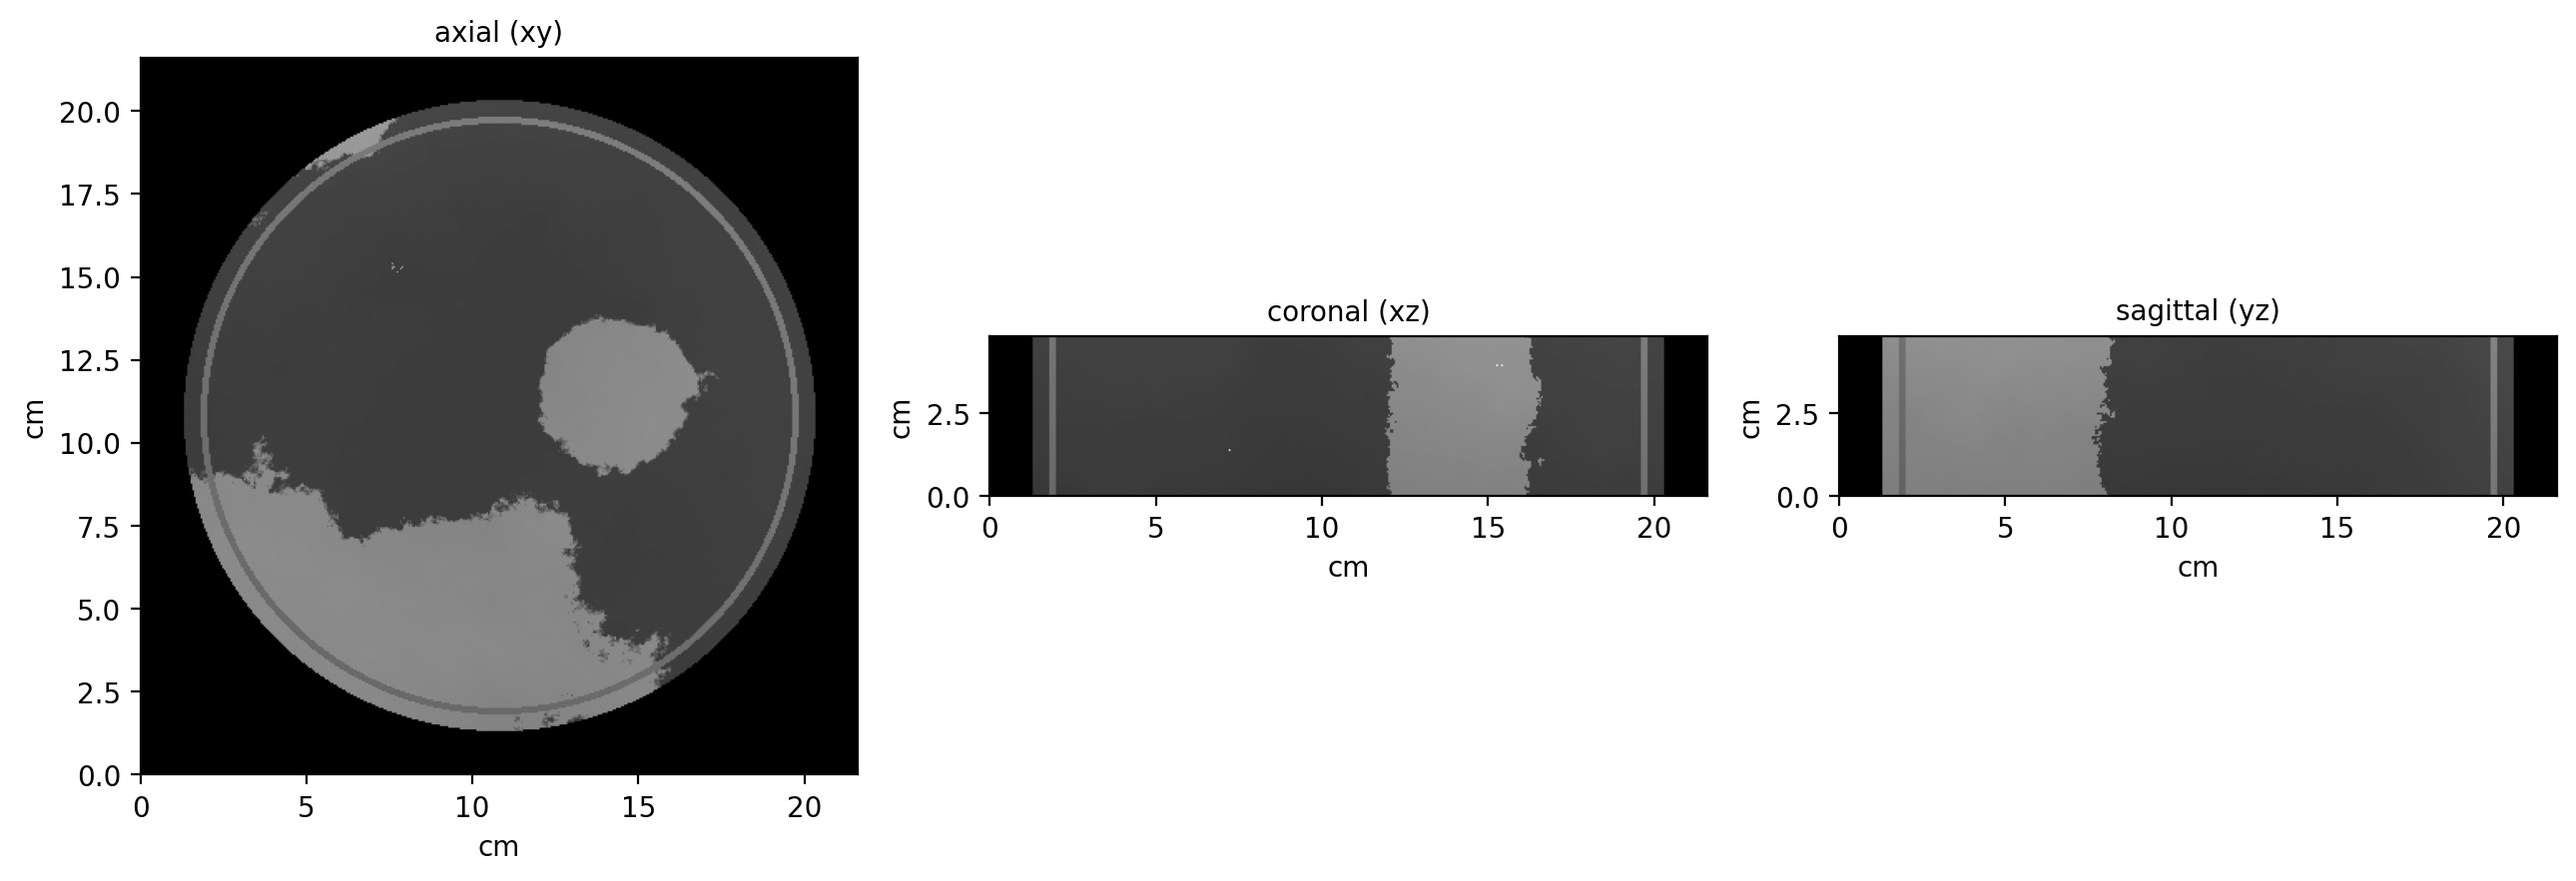
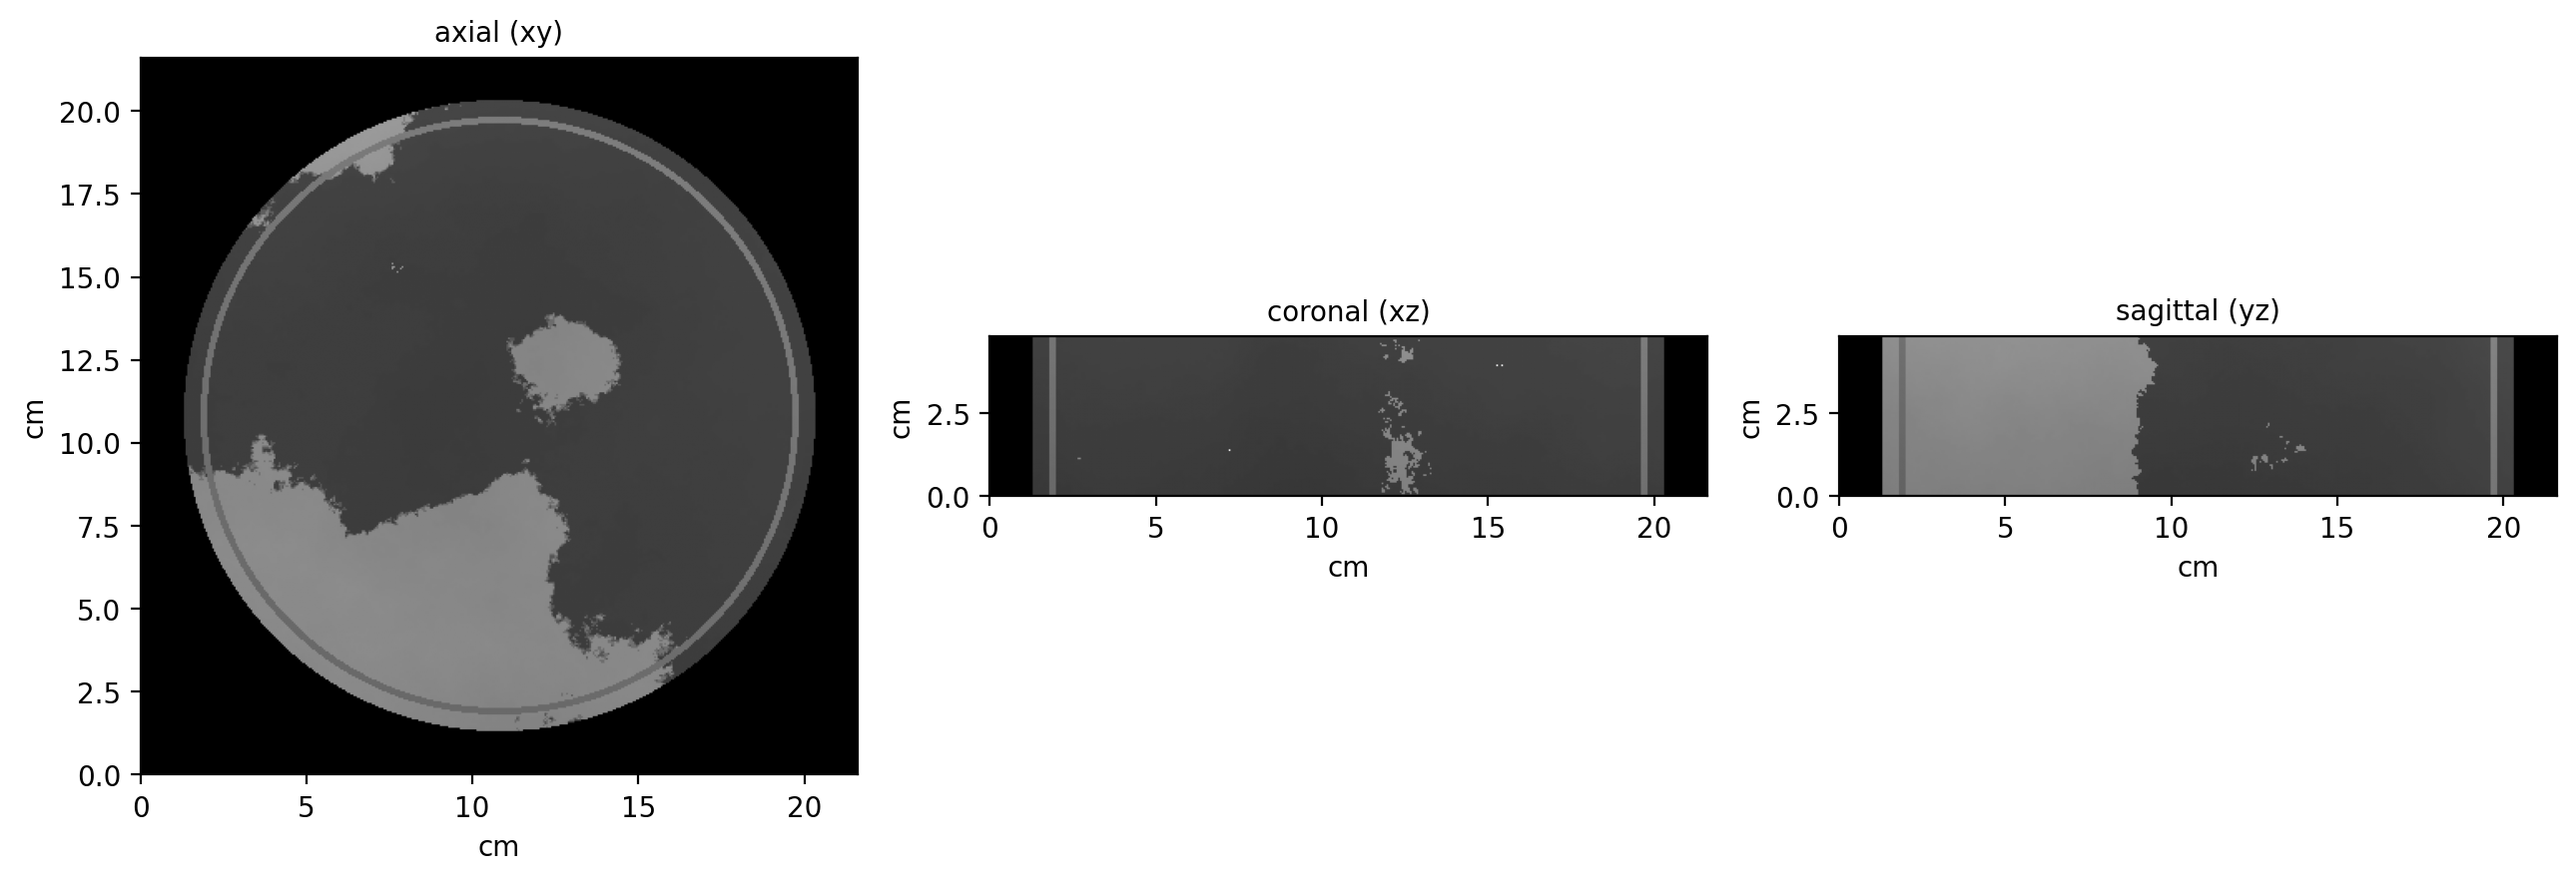
anisotropic islands

diff --git a/scripts/_run_synthetic_phantoms.py b/scripts/_run_synthetic_phantoms.py
@@ -145,10 +145,11 @@ def _powerlaw_field(shape, alpha, rng):
 def build_powerlaw_phantom(shape, dx_cm, rng,
                             alpha_main=2.5, alpha_hf=1.8,
                             hf_weight=0.18,
-                            n_islands=3,
+                            n_islands=6,
                             island_sigma_cm=1.8,
-                            island_strength=2.8,
+                            island_strength=2.2,
                             island_max_offset_cm=5.5,
+                            island_aspect_range=(0.4, 2.5),
                             glandular_fraction=0.38,
                             intra_tissue_variation=0.10,
                             n_calc_clusters=40,
@@ -183,13 +184,22 @@ def build_powerlaw_phantom(shape, dx_cm, rng,
     x = (np.arange(NX) - (NX - 1) / 2) * dx_cm
     Y, X = np.meshgrid(y, x, indexing="ij")
     island_bias_xy = np.zeros_like(Y, dtype=np.float32)
+    asp_lo, asp_hi = island_aspect_range
     for _ in range(n_islands):
         # Uniform offset within a disc of radius island_max_offset_cm
         r_off = island_max_offset_cm * np.sqrt(float(rng.uniform()))
-        th    = 2 * np.pi * float(rng.uniform())
-        cy, cx = r_off * np.sin(th), r_off * np.cos(th)
+        th_pos = 2 * np.pi * float(rng.uniform())
+        cy, cx = r_off * np.sin(th_pos), r_off * np.cos(th_pos)
+        # Anisotropic Gaussian: random aspect ratio + random orientation
+        aspect = float(rng.uniform(asp_lo, asp_hi))
+        sigma_u = island_sigma_cm * np.sqrt(aspect)
+        sigma_v = island_sigma_cm / np.sqrt(aspect)
+        th_rot = 2 * np.pi * float(rng.uniform())
+        cos_t, sin_t = np.cos(th_rot), np.sin(th_rot)
+        u =  cos_t * (X - cx) + sin_t * (Y - cy)
+        v = -sin_t * (X - cx) + cos_t * (Y - cy)
         island_bias_xy += np.exp(
-            -((Y - cy) ** 2 + (X - cx) ** 2) / (2 * island_sigma_cm ** 2)
+            -(u * u / (2 * sigma_u ** 2) + v * v / (2 * sigma_v ** 2))
         ).astype(np.float32)
     # normalize so peak bias ~ island_strength regardless of overlap
     peak = max(float(island_bias_xy.max()), 1e-12)
